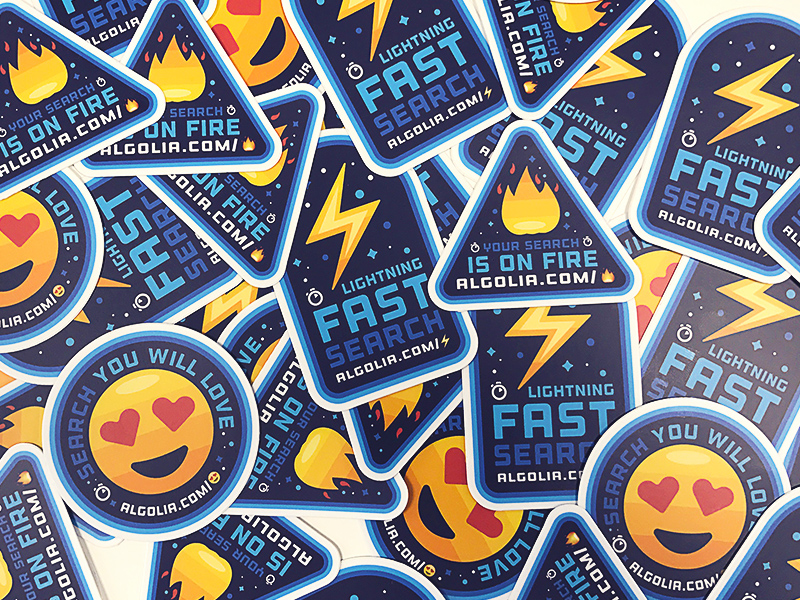
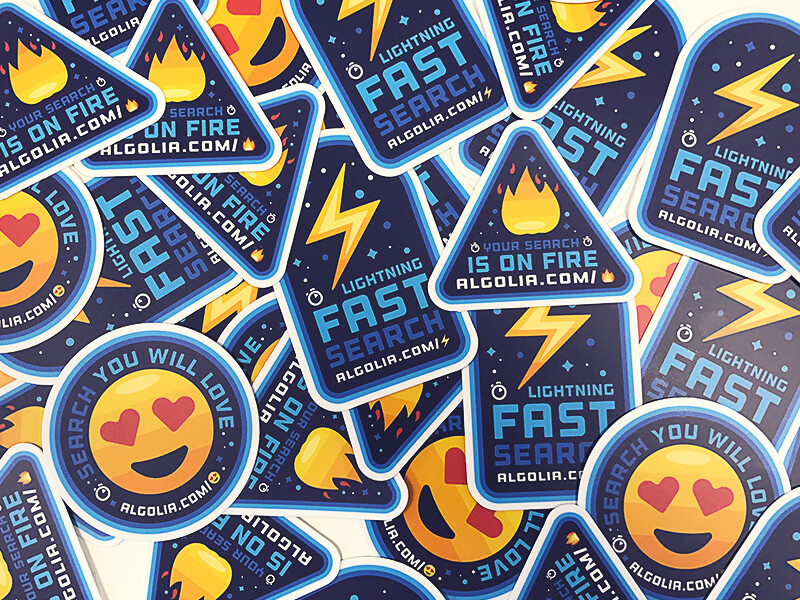
optimised images

diff --git a/PITCHME.md b/PITCHME.md
@@ -307,6 +307,11 @@ One company that does this really well I think is Algolia. They have stickers an
 ---
 ![algolia2](assets/images/algolia_stickers4.jpg)
 
+---
+![algolia2](assets/images/algolia_stickers5.jpg)
+
+---
+![algolia2](assets/images/algolia_pin.jpg)
 
 
 ---
